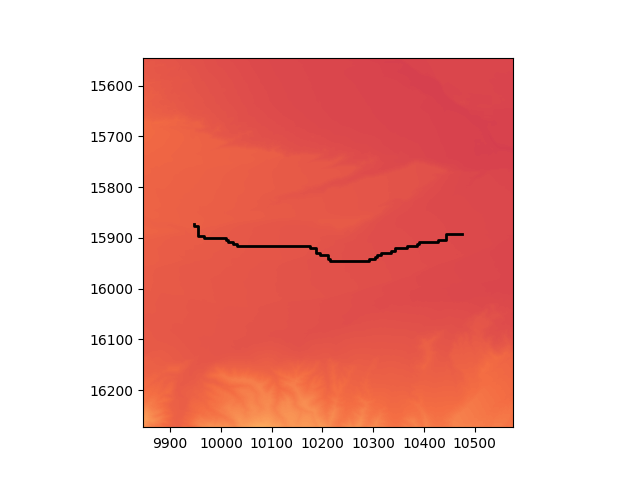
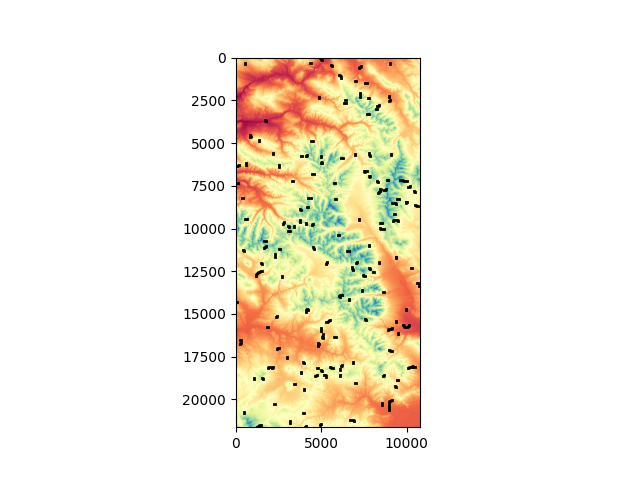
read

diff --git a/src/gradient.py b/src/gradient.py
@@ -94,7 +94,7 @@ class Gradient:
         plt.xlim(center_x - half_side, center_x + half_side)
         plt.ylim(center_y - half_side, center_y + half_side)
         plt.gca().invert_yaxis()
-        plt.savefig("images/ascents.png")
+        plt.savefig("images/onePath.png")
         plt.show()
 
     def multiAscent(self, tries, stepSize):

diff --git a/README.md b/README.md
@@ -48,12 +48,15 @@ if __name__=="__main__":
     plt.savefig("images/topology.png")
     plt.show()
 ```
+
 ![Arkansas Valye](images/topology.png)
 
 ## Software building
 I implemented the gradient descent model within a class in ```src/gradient.py```. Class objects hold the numpy array ```map```. I include one method to run single gradient ascents, implementing the algorithm as was described above. I include a second function to loop through, running the ascent algorithm hundreds of times, where each run begins in a random location. I run the algorithm in this way, since it will often take many re-runs and various paths to find the hgihest point. Here is a second topological map, where each black line represents a single ascent. 
+
 ![Ascents](images/ascents.png)
+
 In the code, I take the longest path, just to visualize one such path taken by the algorithm, seeing its turns.
-![One Ascent](images/grad.png)
+![One Ascent](images/onePath.png)
 ## Resutls
-As you can see, this algorithm is far from perfect. Running it three
+As you can see, this algorithm is far from perfect. Notice that most black lines stop a long way from the highest elevation, seen in dark red. However, after 500 trials taking about 3 seconds to run, you will generally find a highest altitude around 14,000 feet -- not to bad! On this run in particular, the algorithm reached 14284.66 feet, a couple hundred feet high from the summit of Mount Elbert. 
